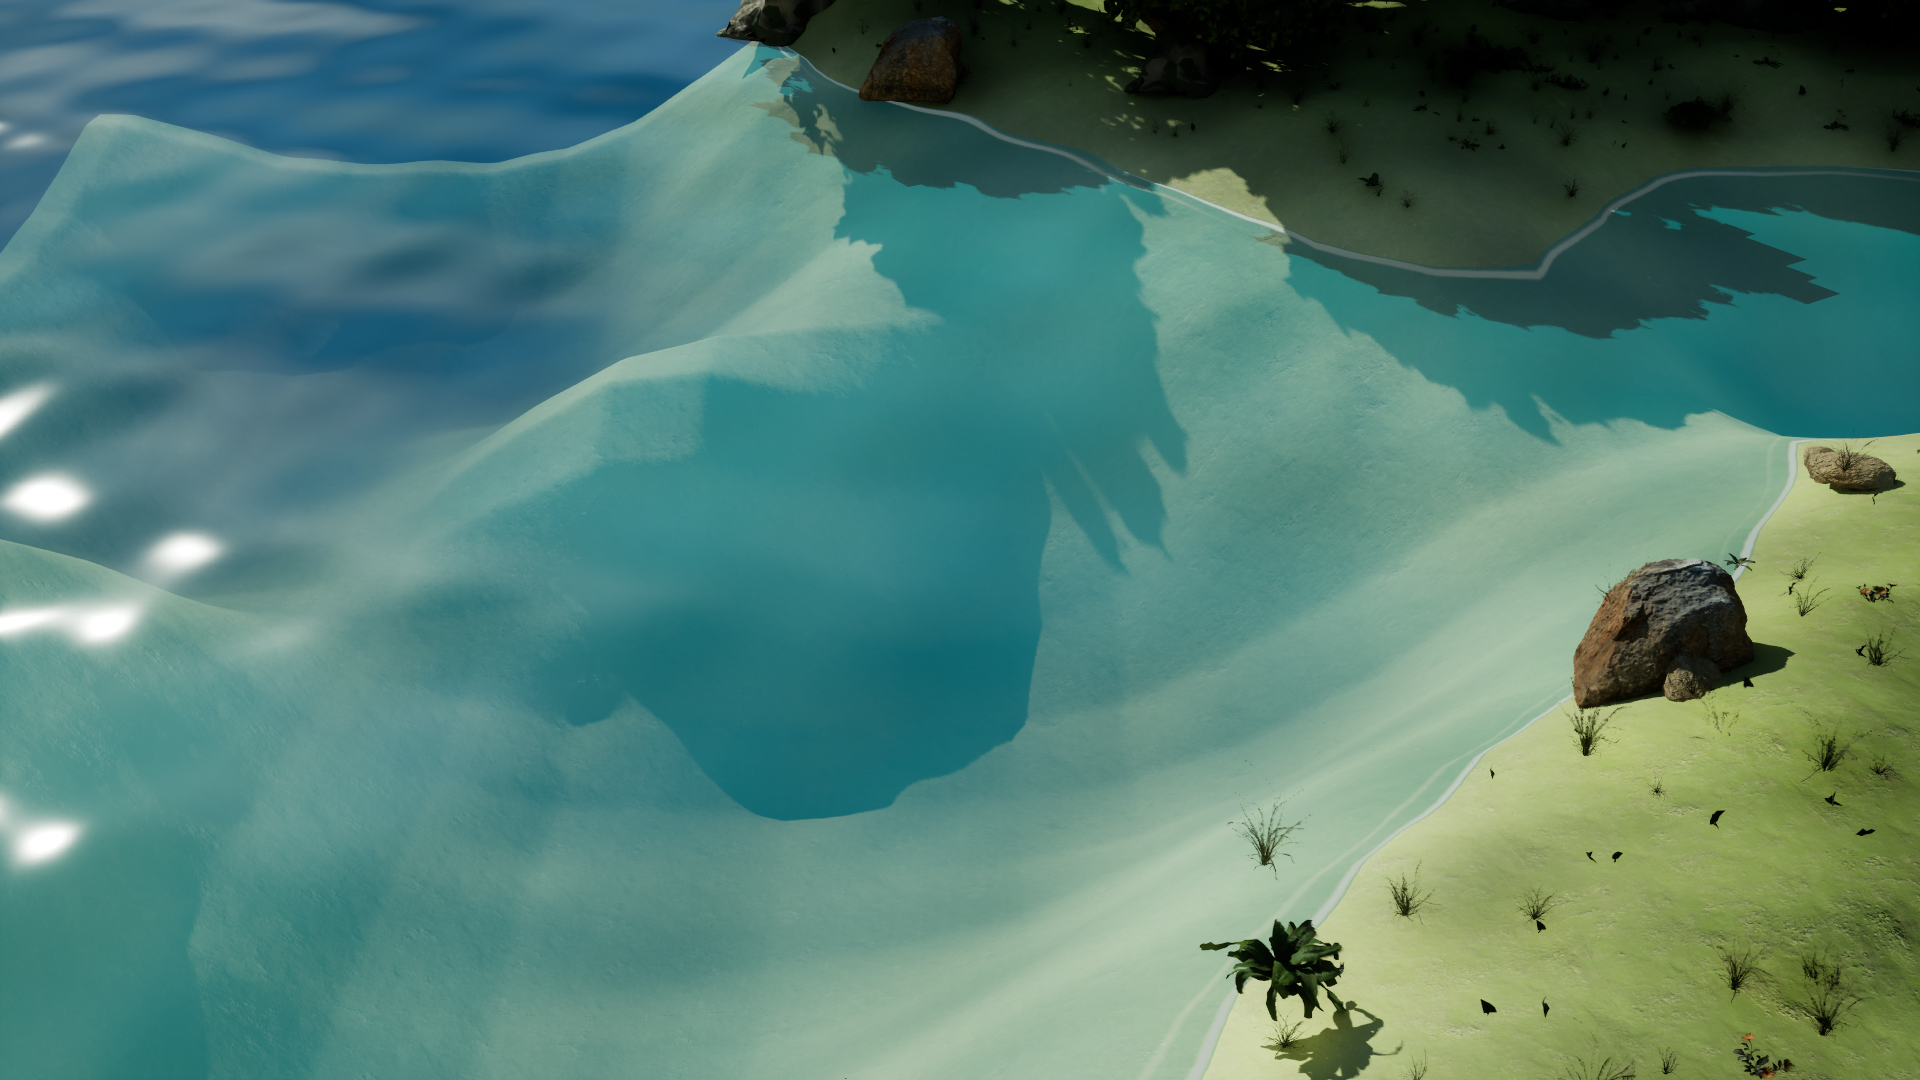
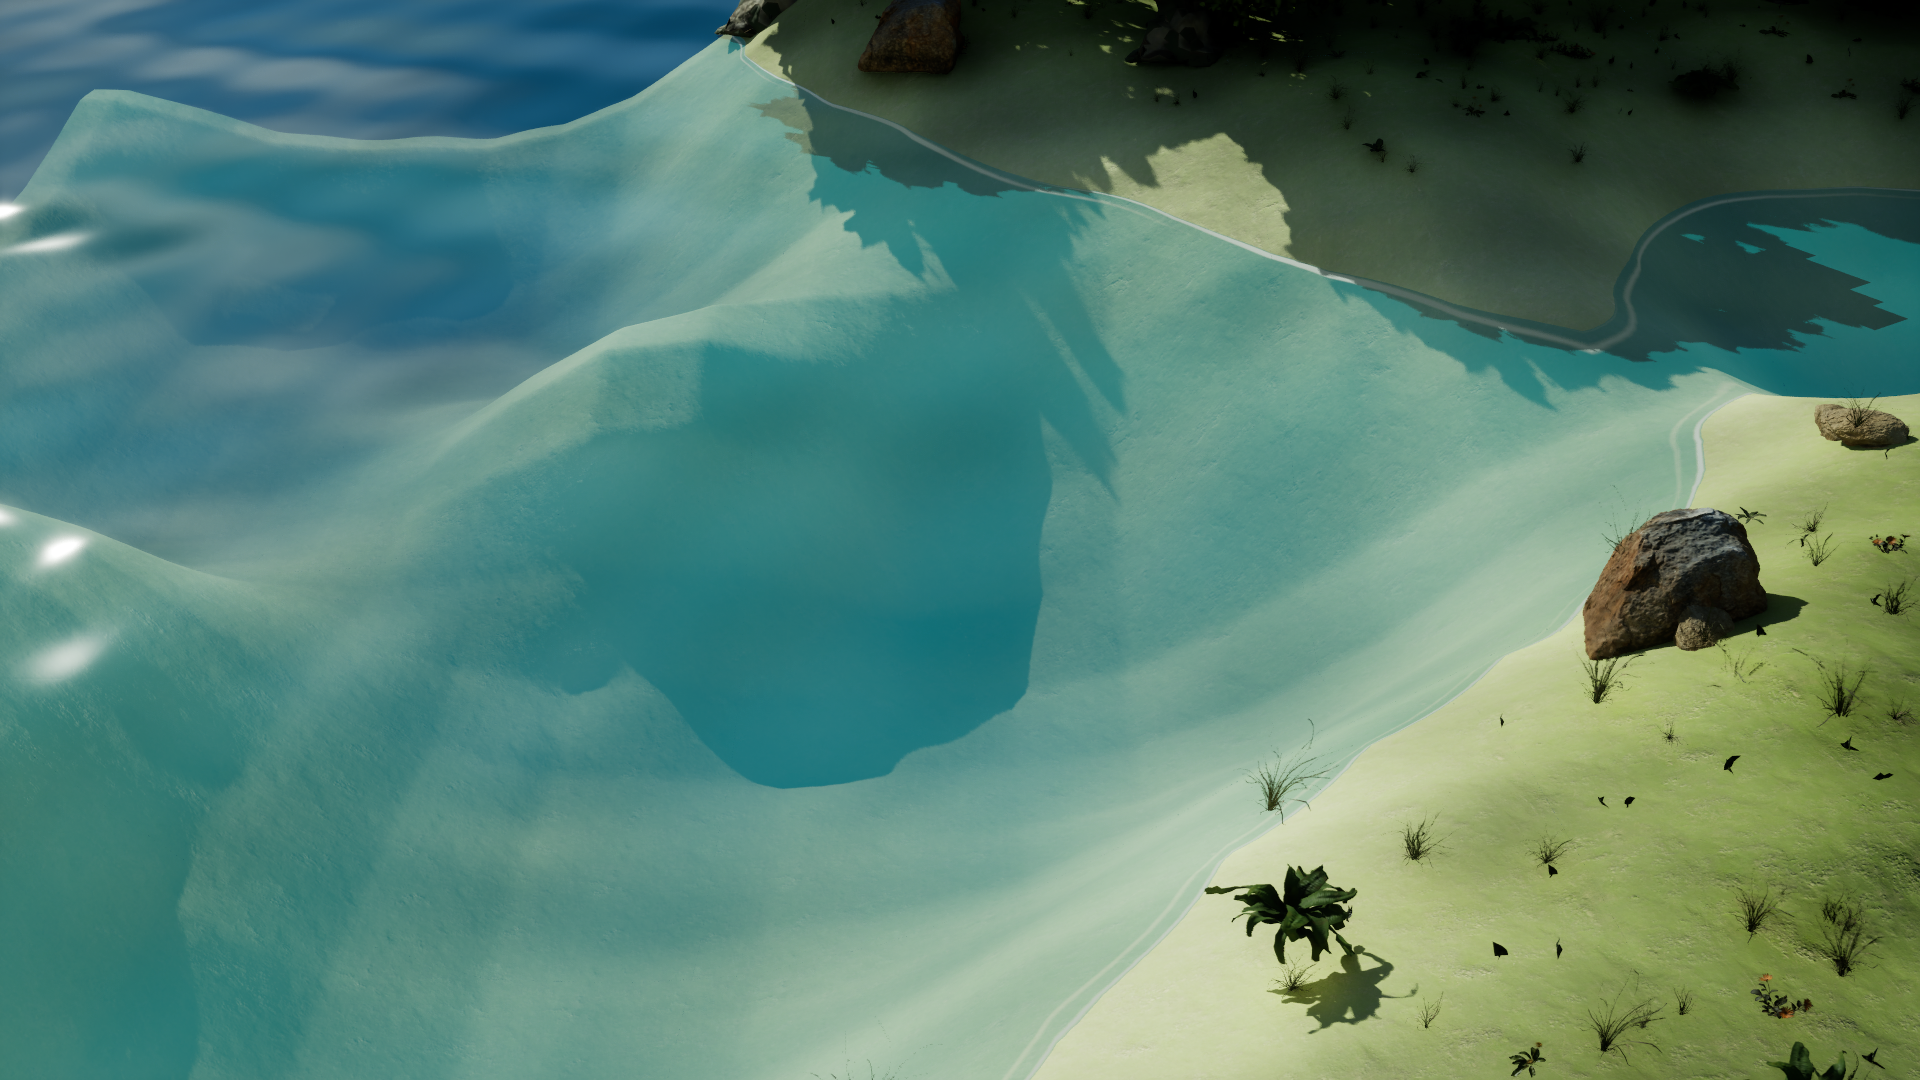
unreal: U1 mapa médio U1M, mar a -70 cm, medição correta (97 fps Alto / 77 Épico com 253 unidades), PENDENCIAS

diff --git a/unreal/scripts/build_u1_map.py b/unreal/scripts/build_u1_map.py
@@ -252,7 +252,7 @@ def main():
             mar = spawn(unreal.WaterBodyOcean, (center[0], center[1], 0), label="Mar")
             return mar
         if AGUA == "mar":
-            plano = spawn(unreal.StaticMeshActor, (center[0], center[1], 0), label="Mar")
+            plano = spawn(unreal.StaticMeshActor, (center[0], center[1], -70), label="Mar")   # 70 cm abaixo de 0: há terra de cultivo a -0,5 m que o mar cobria
             comp = plano.get_editor_property("static_mesh_component")
             comp.set_editor_property("static_mesh", unreal.load_asset("/Engine/BasicShapes/Plane"))
             comp.set_material(0, unreal.load_asset("/Game/Terreno/M_Mar"))

diff --git a/art/meshy/canal/respostas/0008.md b/art/meshy/canal/respostas/0008.md
@@ -28,18 +28,20 @@ alterar `src/`. Versões: Unreal Engine 5.8.3, driver NVIDIA 617.42, MSVC 14.51.
   reflexos), sombras com Virtual Shadow Maps, TSR.
 
 ### Desempenho — build empacotada, 1920×1080 em janela, RTX 4070 Ti
-Cenário: mapa `medium`, 4 jogadores todos sob IA, 15 min de pré-corrida (`unreal/scripts/u1-servidor.ts`), ~250 unidades e
-~217 edifícios em jogo, câmera de jogo padrão sobre a cidade; 13 amostras de 5 s (`AOE_PERF`, `unreal/capturas/perf-alto-2.txt` e `perf-epico-3.txt`).
+Cenário: mapa `medium` (`/Game/Maps/U1M`, terreno exportado do mesmo seed), 4 jogadores sob IA, 15 min de pré-corrida
+(`unreal/scripts/u1-servidor.ts`), 253 unidades e 217 edifícios em jogo, câmera de jogo padrão; 13 amostras de 5 s
+(`AOE_PERF`, `unreal/capturas/perf-alto-2.txt` e `perf-epico-3.txt`). Com o mar novo, luz nova e Nanite desligado nas folhagens.
 
 | Preset (`sg.*`) | fps médio | fps mínimo (média de 5 s) | GPU média | pior quadro | VRAM da placa* |
 |---|---|---|---|---|---|
-| Alto (2) | 92,3 | 89,8 | 10,3 ms | 38 ms | 5,7 GB |
-| Épico (3) | 74,7 | 72,5 | 12,8 ms | 35 ms | 6,3 GB |
+| Alto (2) | 97,3 | 95,7 | 10,0 ms | 34,5 ms | 5,6 GB |
+| Épico (3) | 77,5 | 77,0 | 12,6 ms | 27,9 ms | 6,1 GB |
 
-\* `nvidia-smi` mede a placa inteira (inclui o Windows e outros programas), de um total de 12 GB; RAM do processo ~1,9 GB.
-**Meta de ≥ 60 fps com 200 unidades: cumprida** nos dois presets. Antes de desligar o Nanite nas folhagens (ver abaixo) a
-média era 119 fps (Alto) e 86 fps (Épico). Os "piores quadros" de 35–38 ms são soluços pontuais (chegada de `state`/carga de
-instâncias), não o ritmo médio.
+* `nvidia-smi` mede a placa inteira (Windows e outros programas incluídos), de 12 GB; RAM do processo ~1,9 GB.
+**Meta de ≥ 60 fps com 200 unidades: cumprida** nos dois presets. Cuidado ao medir: **outro jogo ou programa pesado aberto no PC derruba o fps**
+(uma medição minha saiu 52 fps por isso). O terreno do mapa médio foi exportado com 2 jogadores e a simulação usa 4: ~1,4 % dos tiles
+diferem (perto dos inícios), irrelevante para o fps, mas **não** use esse par para capturas; capturas usam o mapa pequeno com servidor pequeno.
+Os "piores quadros" de ~28–35 ms são soluços pontuais, não o ritmo médio.
 
 ### Vídeo
 `unreal/capturas/u1-clipe.mp4` (1920×1080, 5 s, 9 MB): sobrevoo da cidade com 60 quadros tirados da build empacotada (cada um 2,5 s depois do anterior, então é um timelapse: câmera deslizando e unidades em saltos). O `ffmpeg` foi instalado por winget com seu aval; gravar a tela ao vivo foi descartado (o Windows não deixou trazer o jogo à frente e a gravação pegaria suas outras janelas).

diff --git a/unreal/PENDENCIAS.md b/unreal/PENDENCIAS.md
@@ -1,0 +1,27 @@
+# Pendências do Unreal (14/10/2026, após o U1)
+
+Decisão do dono em 14/10/2026: **seguir no Unreal**. Itens que a sessão local não conseguiu fechar, para depois:
+
+## Arte e animação
+- **Cavalaria, criaturas, heróis montados e navios sem esqueleto**: hoje só balançam ao andar e avançam no golpe. O Meshy gratuito
+  não traz rig. Caminhos: (a) Mixamo (animações humanas; exige login Adobe do dono) para heróis/centauros bípedes; (b) Blender com
+  auto-rig (Rigify/auto-skin) por espécie, preparado pela nuvem (`scripts/bake/`); (c) animação por vértices (shader) só para voadoras.
+- **Casa de telhado vermelho** (`edificios/house__greek-tavern.glb`): malha estilhaçada de perto (simplificada de 565 mil para
+  87 mil triângulos com `simplifySloppy`). Baixar de novo o original do Meshy (URL em `art/meshy/catalogo.json`) e reduzir com
+  mais cuidado (200–300 mil, Nanite aguenta) ou trocar pela outra casa.
+- **Orientação das armas** (yaw −90 assumido): lanças/escudos de algumas unidades olham para o lado. Conferir tipo a tipo com captura de perto.
+- **Efeitos** (poeira, fogo, golpes, fumaça de obra): a ponte já manda `events`/`effects`; falta Niagara (sem API de Python prática, fazer no editor).
+- **Ciclo de dia e variação de céu**; ajuste fino de contraste dos campos.
+- **Plantas à sombra** ficam escuras (folhagem sem translucência): material de folha com *subsurface*.
+- **Nanite desligado** em folhagem/vento (73 malhas) por causa de travamento de GPU (`u1_nanite.py`); reavaliar em versão nova do motor.
+
+## Engenharia
+- Terreno do mapa médio exportado com 2 jogadores (`scripts/unreal/export-terrain.ts`, da nuvem): pedir `--players N` à nuvem.
+- Cook leva só pastas explícitas (`DirectoriesToAlwaysCook`); os control rigs/ABP do Third Person estão quebrados (apontam para outra pasta) e ficam de fora.
+- `-AoEPerfLog=` não grava arquivo na build (lê-se o log do jogo); VRAM por processo não medida (só `nvidia-smi` da placa).
+- Mouse/gameplay no Unreal: só seleção e `move`; faltam construir, treinar, atalhos, HUD (U2).
+- Licenças para `docs/LEGAL.md` §4 (nuvem): Poly Haven (CC0) e Manny/Quinn + animações da Epic (só dentro de jogo feito no Unreal).
+
+## Depende do dono
+- Aprovar o escopo do **U2** (`unreal/U2-PLANO.md`).
+- Conta do Fab/Megascans (opcional; hoje tudo vem do Poly Haven CC0).
